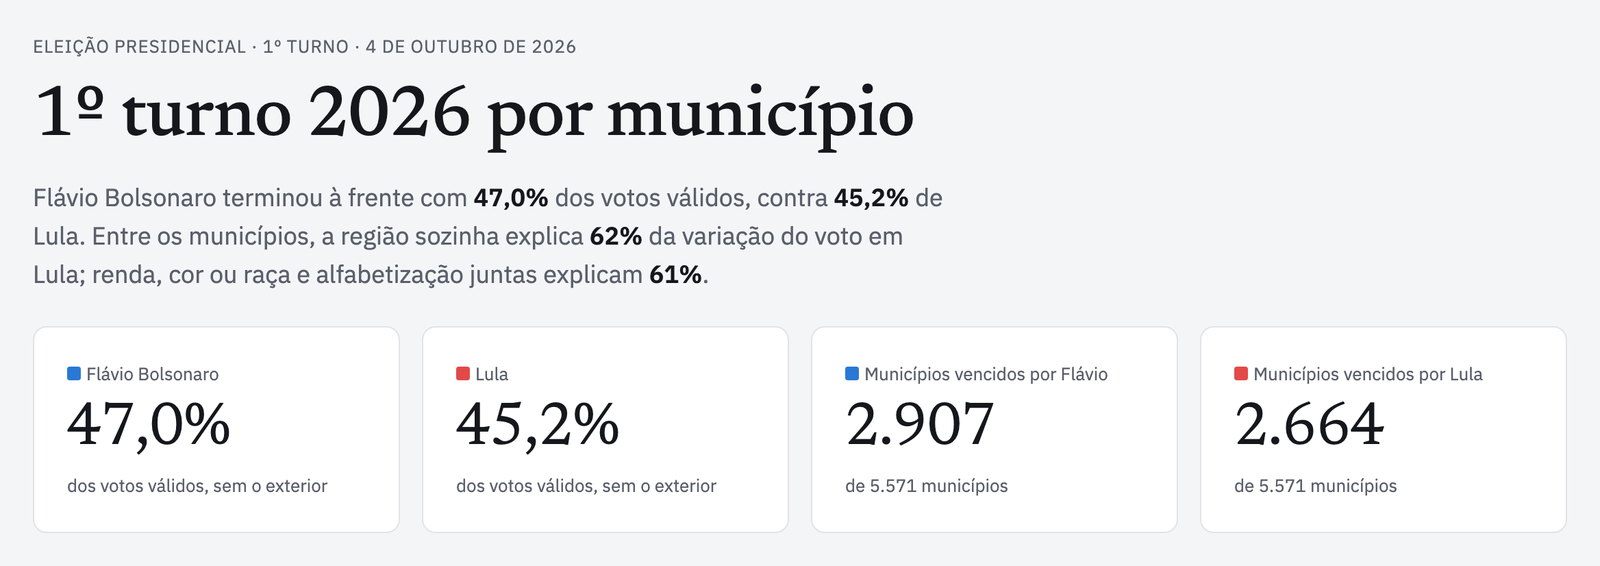
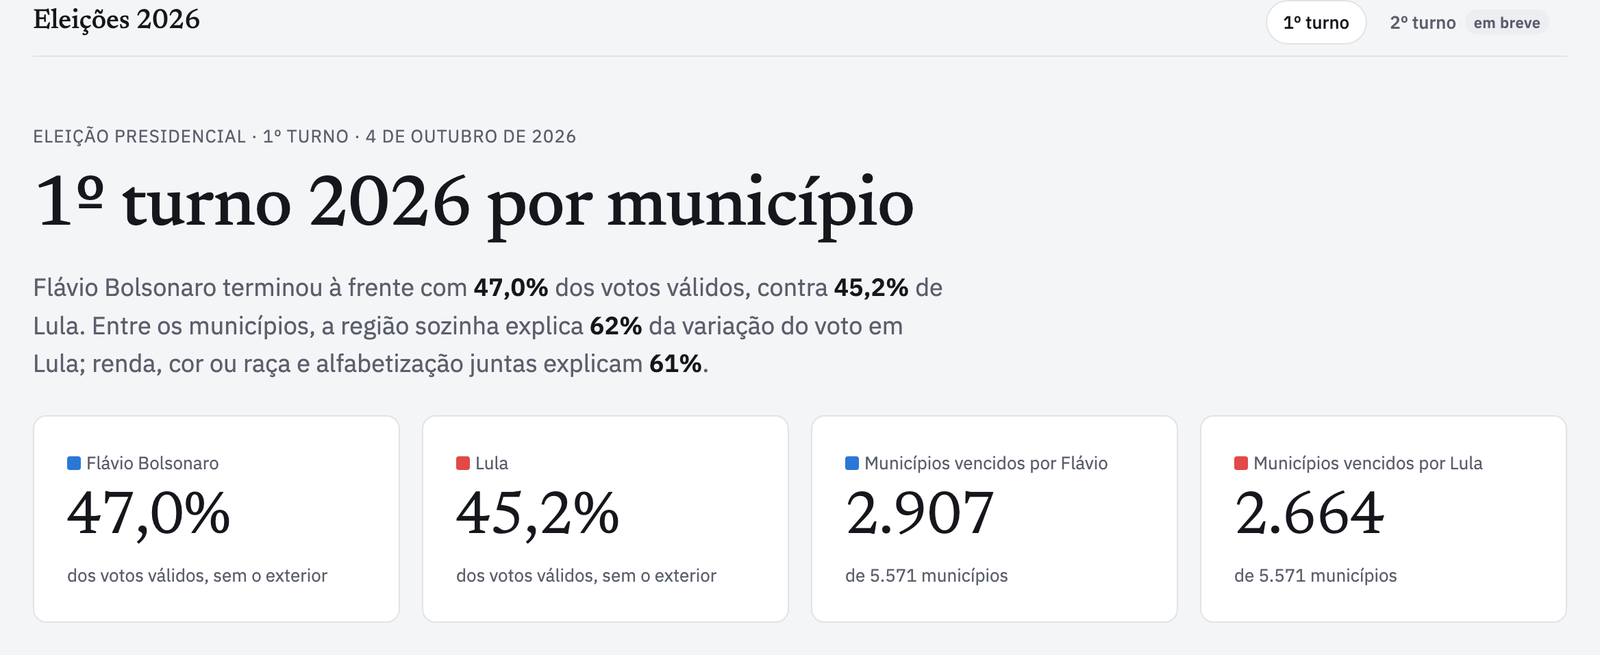
Document the live site, second-round tab and deploy pipeline
Link the production site, add a CI badge, describe the GitHub Actions
checks and the Coolify auto-deploy, and refresh the screenshots with the
new round tabs.

diff --git a/README.md b/README.md
@@ -2,10 +2,13 @@
 
 O resultado do 1º turno da eleição presidencial de 2026 (TSE), cruzado com renda, cor ou raça e alfabetização do Censo 2022 (IBGE), município a município. O projeto tem duas partes: um pipeline em Python que baixa e confere os dados oficiais, e um site estático em Astro + d3 que mostra o que eles dizem.
 
+**Site:** https://eleicoes-2026.caioapolonio.dev
+
 ![Astro](https://img.shields.io/badge/Astro-7-BC52EE?logo=astro&logoColor=white)
 ![D3](https://img.shields.io/badge/d3-7-F9A03C?logo=d3dotjs&logoColor=white)
 ![Python](https://img.shields.io/badge/Python-3.13-3776AB?logo=python&logoColor=white)
 ![Bun](https://img.shields.io/badge/Bun-1.3-000000?logo=bun&logoColor=white)
+[![CI](https://github.com/caioapolonio/eleicoes-2026/actions/workflows/ci.yml/badge.svg)](https://github.com/caioapolonio/eleicoes-2026/actions/workflows/ci.yml)
 
 ![Topo do site: título, resumo e os números nacionais](docs/hero.png)
 
@@ -16,6 +19,7 @@ O resultado do 1º turno da eleição presidencial de 2026 (TSE), cruzado com re
 - **Dentro de cada região**: correlações no país todo e dentro de cada uma das cinco regiões.
 - **Município a município**: renda × margem nos 5.570 municípios, em duas visões. A **dispersão** usa escala logarítmica e permite destacar uma região. O **mapa** pinta cada município pela margem ou pela renda. Um link terminado em `#mapa` já abre o mapa.
 - **Quanto cada fator explica**: o R² de regressões com região, renda, cor ou raça e alfabetização.
+- **2º turno**: uma aba própria, que espera a votação de 25 de outubro e os dados abertos do TSE para ganhar os mesmos gráficos.
 
 |                              Mapa                               |                                     Dispersão                                     |
 | :-------------------------------------------------------------: | :-------------------------------------------------------------------------------: |
@@ -62,6 +66,12 @@ O comando baixa os arquivos do TSE e do IBGE (cerca de 30 MB, guardados em `data
 bun run build
 ```
 
+## Deploy e CI/CD
+
+- **CI** ([`.github/workflows/ci.yml`](.github/workflows/ci.yml)): roda em todo push e pull request. Confere a formatação (Prettier), os tipos (`astro check`), o build do site, a sintaxe dos scripts Python e o build da imagem Docker.
+- **CD**: o site roda num [Coolify](https://coolify.io) próprio, ligado ao repositório por um GitHub App. Cada push na `main` dispara um novo deploy. O [`Dockerfile`](Dockerfile) checa os tipos e gera o site; se algo quebrar, o deploy falha e a versão anterior continua no ar.
+- **Servidor**: nginx ([`nginx.conf`](nginx.conf)) serve os arquivos estáticos com gzip, o que reduz os dados municipais de 1,3 MB para cerca de 220 KB, e com cache longo para os arquivos com hash.
+
 ## Fontes dos dados
 
 | Fonte                                                                                                                                                | O que vem dela                                                                                        |
@@ -99,13 +109,16 @@ Os arquivos do TSE usados aqui foram gerados em 18/10/2026.
 ```
 ├── build_dataset.py        # TSE + IBGE → CSV por município, com conferência dos totais
 ├── analyze.py              # faixas, correlações e regressões ponderadas
+├── Dockerfile, nginx.conf  # imagem de produção (build + nginx)
+├── .github/workflows/      # CI
 ├── data/
 │   ├── municipios_presidente_1t_2026.csv
 │   └── analysis/           # tabelas que o site lê
 ├── public/data/            # tabela municipal e malha do mapa, servidas ao navegador
 ├── scripts/prepare-site-data.ts
 └── src/
-    ├── pages/index.astro   # a página
+    ├── layouts/Base.astro  # cabeçalho com as abas dos turnos e rodapé de fontes
+    ├── pages/              # index.astro (1º turno) e segundo-turno.astro
     ├── components/         # tabela de correlações, card de municípios, rodapé de fontes
     ├── charts/             # gráficos em d3: barras, faixas, dispersão, mapa
     ├── lib/                # dados tipados, formatação pt-BR, utilitários de gráfico
